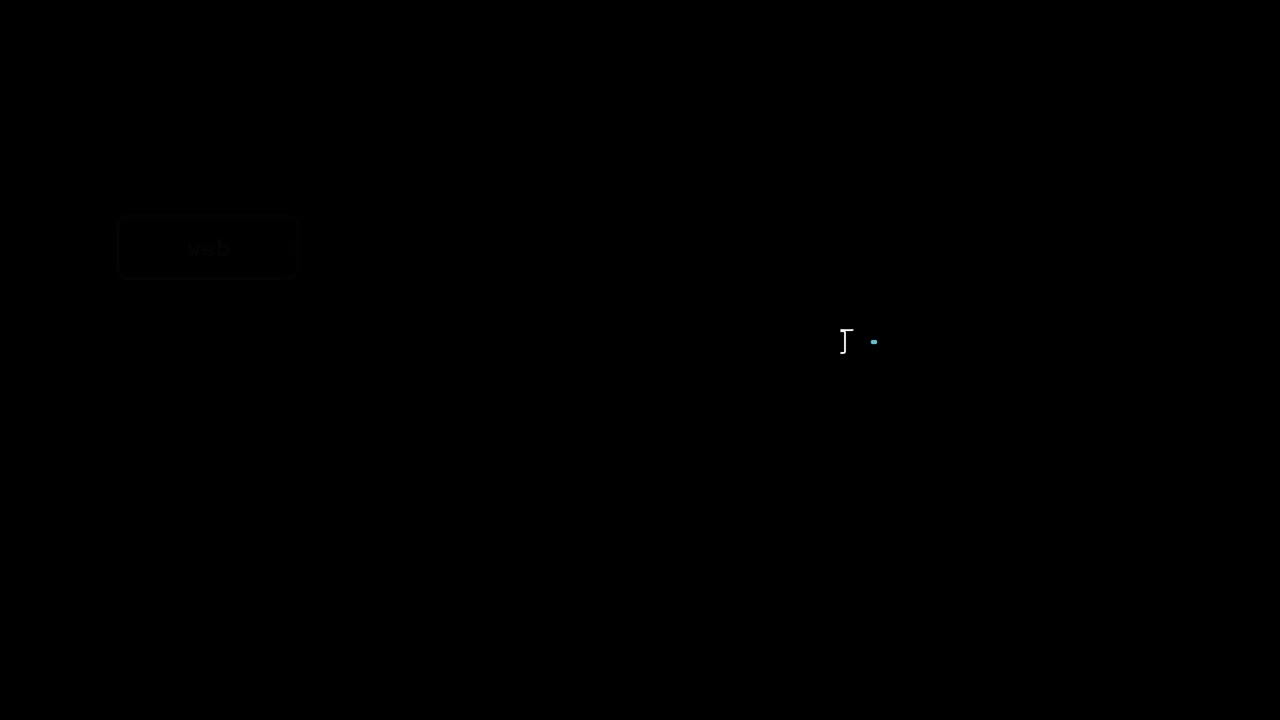
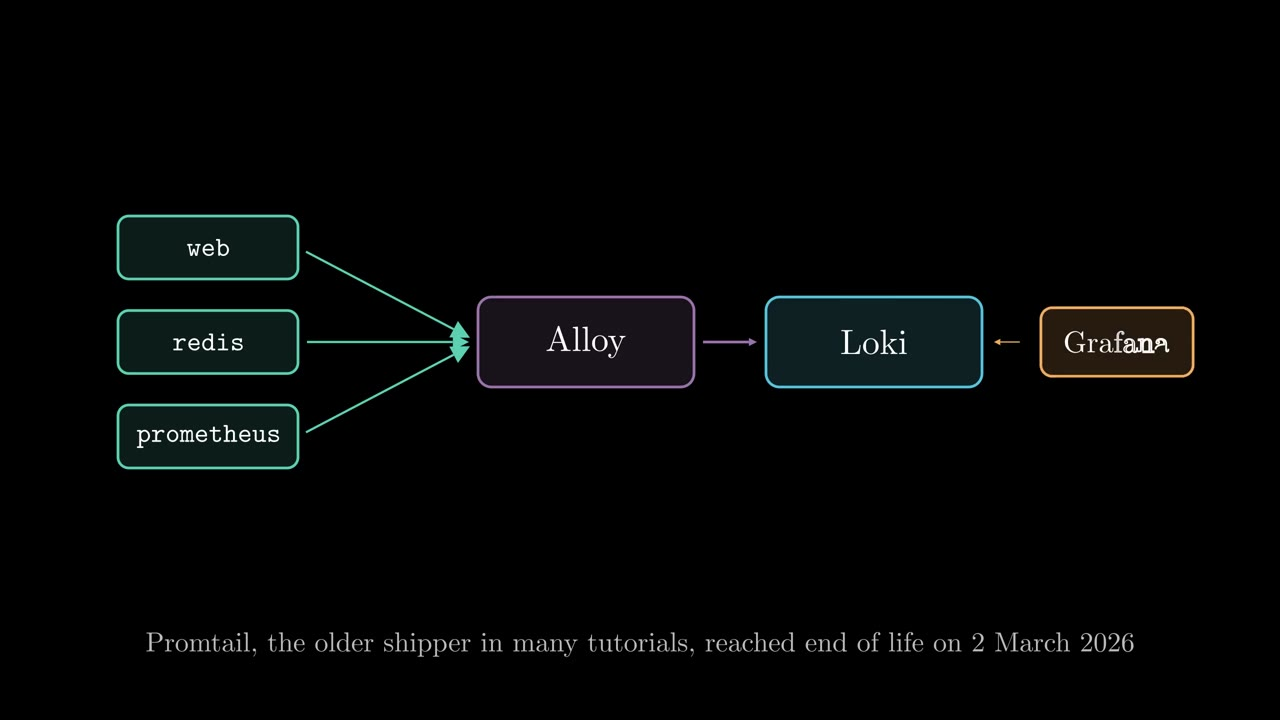
List Day 54 on the page; new poster
Claude-Session: https://claude.ai/code/session_019JaZuE3vpQ8cDGZxQeNpzp

diff --git a/videos/p13/d54_records_office.py b/videos/p13/d54_records_office.py
@@ -56,8 +56,7 @@ class D54RecordsOffice(VoiceScene):
         nl = VGroup(*[Line(LEFT * 1.6, RIGHT * (1.6 - 0.5 * (k % 2)), stroke_color=BLUE_M, stroke_width=2) for k in range(5)]).arrange(DOWN, buff=0.28, aligned_edge=LEFT).move_to(notes)
         self.beat("Useful, but it is not the story. The story is in the nurses' notes: what the patient said, what was given, what went wrong.",
                   Create(notes), FadeIn(notes_t), LaggedStart(*[Create(l) for l in nl], lag_ratio=0.2), run_time=2.8)
-        drawer = T("each ward's drawer is emptied when the patient leaves", 24, GREY_B).next_to(notes, DOWN, buff=0.25)
-        fit(drawer, 6.0)
+        drawer = VGroup(T("each ward's drawer is emptied", 24, GREY_B), T("when the patient leaves", 24, GREY_B)).arrange(DOWN, buff=0.08).next_to(notes, DOWN, buff=0.2)
         self.beat("But each ward keeps its notes in its own drawer, and the drawer is emptied when the patient leaves.",
                   FadeIn(drawer), LaggedStart(*[l.animate.set_opacity(0.15) for l in nl], lag_ratio=0.2), run_time=2.4)
         sw = VGroup(M("docker compose logs", 26, TEAL_M), T("one machine, only while the container exists", 24, GREY_B),
@@ -81,11 +80,11 @@ class D54RecordsOffice(VoiceScene):
         self.play(FadeOut(VGroup(q, q2, opts)), run_time=0.4)
 
         # ---------------- 3. the records office, mapped
-        cat = frame(3.2, 3.6, GOLD_M, [-4.6, 0.2, 0], fill=0.08)
+        cat = frame(3.8, 3.6, GOLD_M, [-4.5, 0.2, 0], fill=0.08)
         cat_t = T("catalogue", 26, GOLD_M).move_to(cat.get_top() + DOWN * 0.35)
         entries = VGroup(*[T(t, 22) for t in ("ward A, bed 4, Monday", "ward A, bed 5, Monday", "ward B, bed 1, Monday", "ward A, bed 4, Tuesday")]).arrange(DOWN, aligned_edge=LEFT, buff=0.22)
         entries.next_to(cat_t, DOWN, buff=0.3)
-        fit(entries, 2.9)
+        fit(entries, 3.4)
         self.beat("Picture a hospital records office. It files notes by ward, bed and date, and never catalogues the words inside.",
                   Create(cat), FadeIn(cat_t), LaggedStart(*[FadeIn(e, shift=RIGHT * 0.1) for e in entries], lag_ratio=0.3), run_time=3.0)
         shelf = VGroup(*[folder(f, BLUE_M, w=1.7) for f in ("A 4 Mon", "A 5 Mon", "B 1 Mon", "A 4 Tue", "B 2 Tue", "C 3 Tue")]).arrange_in_grid(2, 3, buff=(0.35, 0.55)).move_to([2.6, 0.2, 0])
@@ -97,9 +96,9 @@ class D54RecordsOffice(VoiceScene):
                                                           shelf[0][1].animate.set_fill(dark(GREEN_M, 0.4))), run_time=3.2)
         self.beat("The catalogue stays tiny. And the reading is quick, because the folders are few.", run_time=None)
         self.beat("That is Loki. The answer is A. It indexes only the labels.", run_time=None)
-        lab = VGroup(T("a label:", 24, GOLD_M), M('service="web"', 24, GOLD_M), M('container="observability-web-1"', 22, GOLD_M)).arrange(DOWN, aligned_edge=LEFT, buff=0.12)
-        lab.move_to([-4.6, 0.0, 0])
-        fit(lab, 3.0)
+        lab = VGroup(T("labels:", 24, GOLD_M), M('service="web"', 22, GOLD_M), M('container=', 22, GOLD_M), M('"observability-web-1"', 22, GOLD_M)).arrange(DOWN, aligned_edge=LEFT, buff=0.12)
+        lab.move_to([-4.5, -0.1, 0])
+        fit(lab, 3.5)
         self.beat("Each log line carries a few labels, a name and a value, such as service is web. The catalogue holds those, and nothing else.",
                   FadeOut(entries), FadeIn(lab), run_time=2.4)
         stream = T("all lines with the same labels: one log stream, one folder", 24, BLUE_M).next_to(shelf, UP, buff=0.3)
@@ -180,7 +179,7 @@ class D54RecordsOffice(VoiceScene):
         self.play(FadeOut(VGroup(mq, tb, err, dr)), run_time=0.5)
 
         # ---------------- 7. break it: a label per visitor
-        cat = frame(3.2, 3.0, GOLD_M, [-4.6, 0.4, 0], fill=0.08)
+        cat = frame(3.9, 3.0, GOLD_M, [-4.5, 0.4, 0], fill=0.08)
         cat_t = T("catalogue", 26, GOLD_M).move_to(cat.get_top() + DOWN * 0.35)
         few = VGroup(*[M(s, 22) for s in ('service="web"', 'service="redis"', 'service="prometheus"')]).arrange(DOWN, aligned_edge=LEFT, buff=0.2).next_to(cat_t, DOWN, buff=0.3)
         self.beat("Now let's break it on purpose. Today the catalogue is tiny: a few services, a few containers.",
